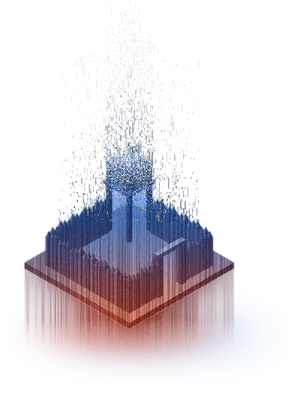
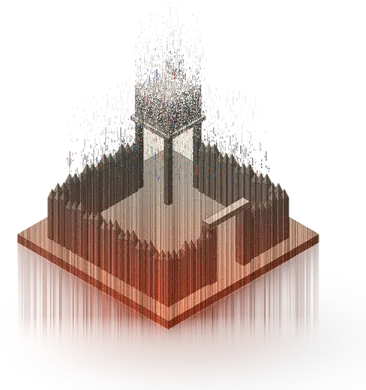
feat(web): render illustrations per theme and use a gate on login
- dissolve.py: add ledger-light (ink on cream) and ledger-dark (paper on
    dark) palettes with rust at the base and a softer glow, plus a
    --headroom option (0.18) so scenes fill their frames instead of
    sitting under ~45% empty space
  - render.py: add a gatehouse scene (closed portcullis, badge reader) for
    the sign-in page, replacing the reused palisade art
  - regenerate every scene as <name>.webp and <name>-dark.webp (+ -sm);
    drop login.webp
  - add components/ArtImage.tsx: shows the current theme's file via dark:,
    the other stays display:none and lazy so it is never fetched; priority
    goes to the visible one
  - Art.tsx: scene map holds light/dark pairs; ArtHero wraps the image for
    display and widens the art column to 240px
  - LoginPage: show the gate through ArtImage without importing Art.tsx,
    so the login build ships only its own images
  - remove unused @hugeicons/react and @hugeicons/core-free-icons
  - CLAUDE.md: document the per-theme art pipeline and commands

diff --git a/web/src/components/Art.tsx b/web/src/components/Art.tsx
@@ -1,49 +1,46 @@
 import type { ReactNode } from "react";
-import beacon from "@/assets/art/beacon.webp";
-import beaconSm from "@/assets/art/beacon-sm.webp";
-import consoleArt from "@/assets/art/console.webp";
-import consoleSm from "@/assets/art/console-sm.webp";
 import palisade from "@/assets/art/palisade.webp";
 import palisadeSm from "@/assets/art/palisade-sm.webp";
+import palisadeDark from "@/assets/art/palisade-dark.webp";
+import palisadeDarkSm from "@/assets/art/palisade-dark-sm.webp";
 import rack from "@/assets/art/rack.webp";
 import rackSm from "@/assets/art/rack-sm.webp";
-import sieve from "@/assets/art/sieve.webp";
-import sieveSm from "@/assets/art/sieve-sm.webp";
+import rackDark from "@/assets/art/rack-dark.webp";
+import rackDarkSm from "@/assets/art/rack-dark-sm.webp";
 import vault from "@/assets/art/vault.webp";
 import vaultSm from "@/assets/art/vault-sm.webp";
+import vaultDark from "@/assets/art/vault-dark.webp";
+import vaultDarkSm from "@/assets/art/vault-dark-sm.webp";
+import beacon from "@/assets/art/beacon.webp";
+import beaconSm from "@/assets/art/beacon-sm.webp";
+import beaconDark from "@/assets/art/beacon-dark.webp";
+import beaconDarkSm from "@/assets/art/beacon-dark-sm.webp";
+import sieve from "@/assets/art/sieve.webp";
+import sieveSm from "@/assets/art/sieve-sm.webp";
+import sieveDark from "@/assets/art/sieve-dark.webp";
+import sieveDarkSm from "@/assets/art/sieve-dark-sm.webp";
+import consoleArt from "@/assets/art/console.webp";
+import consoleSm from "@/assets/art/console-sm.webp";
+import consoleDark from "@/assets/art/console-dark.webp";
+import consoleDarkSm from "@/assets/art/console-dark-sm.webp";
+import { ArtImage, type ArtPair } from "@/components/ArtImage";
 import { labelMono } from "@/components/layout/Page";
-import { cn } from "@/lib/utils";
 
-// Decorative scenes drawn by scripts/art (render.py, then dissolve.py with
-// the ledger palette). Transparent WebP, so one file sits on both themes.
+// Decorative scenes drawn by scripts/art (render.py, then dissolve.py
+// --palette ledger-light and ledger-dark --headroom 0.18), one file per theme.
+// Sizes are what dissolve.py prints.
 const scenes = {
-  palisade: { full: palisade, sm: palisadeSm, w: 601, h: 793 },
-  rack: { full: rack, sm: rackSm, w: 594, h: 917 },
-  vault: { full: vault, sm: vaultSm, w: 591, h: 818 },
-  beacon: { full: beacon, sm: beaconSm, w: 585, h: 976 },
-  sieve: { full: sieve, sm: sieveSm, w: 583, h: 808 },
-  console: { full: consoleArt, sm: consoleSm, w: 583, h: 791 },
-};
+  palisade: { light: { full: palisade, sm: palisadeSm, w: 733, h: 781 }, dark: { full: palisadeDark, sm: palisadeDarkSm, w: 742, h: 781 } },
+  rack: { light: { full: rack, sm: rackSm, w: 665, h: 870 }, dark: { full: rackDark, sm: rackDarkSm, w: 673, h: 870 } },
+  vault: { light: { full: vault, sm: vaultSm, w: 728, h: 821 }, dark: { full: vaultDark, sm: vaultDarkSm, w: 737, h: 821 } },
+  beacon: { light: { full: beacon, sm: beaconSm, w: 611, h: 870 }, dark: { full: beaconDark, sm: beaconDarkSm, w: 618, h: 870 } },
+  sieve: { light: { full: sieve, sm: sieveSm, w: 723, h: 817 }, dark: { full: sieveDark, sm: sieveDarkSm, w: 731, h: 817 } },
+  console: { light: { full: consoleArt, sm: consoleSm, w: 723, h: 794 }, dark: { full: consoleDark, sm: consoleDarkSm, w: 731, h: 794 } },
+} satisfies Record<string, ArtPair>;
 
-// Art is decoration only: empty alt and hidden from assistive tech. Width and
-// height reserve the space before it loads; size it with a width class.
+// Size it with a width class; className must not set display (see ArtImage).
 export function Art({ name, className }: { name: keyof typeof scenes; className?: string }) {
-  const s = scenes[name];
-  return (
-    <img
-      src={s.sm}
-      srcSet={`${s.sm} ${s.w >> 1}w, ${s.full} ${s.w}w`}
-      sizes="(min-width: 640px) 280px, 200px"
-      width={s.w}
-      height={s.h}
-      alt=""
-      aria-hidden
-      decoding="async"
-      loading="lazy"
-      draggable={false}
-      className={cn("pointer-events-none h-auto select-none transition-opacity duration-700 ease-out starting:opacity-0 motion-reduce:transition-none", className)}
-    />
-  );
+  return <ArtImage art={scenes[name]} sizes="(min-width: 640px) 240px, 200px" className={className} />;
 }
 
 // ArtHero opens a page: eyebrow, title and a line of copy on the left, the
@@ -52,12 +49,14 @@ export function Art({ name, className }: { name: keyof typeof scenes; className?
 export function ArtHero({ art, eyebrow, title, children }: { art: keyof typeof scenes; eyebrow: string; title: string; children: ReactNode }) {
   return (
     <section className="relative overflow-hidden border border-edge bg-card sm:min-h-[240px]">
-      <div className="relative z-10 flex flex-col gap-3 p-6 sm:pr-[240px] lg:pr-[260px]">
+      <div className="relative z-10 flex flex-col gap-3 p-6 sm:pr-[270px] lg:pr-[300px]">
         <p className={labelMono}>{eyebrow}</p>
         <h2 className="text-[24px] leading-tight text-ink sm:text-[30px]">{title}</h2>
         {children}
       </div>
-      <Art name={art} className="absolute inset-y-3 right-4 hidden h-[calc(100%-1.5rem)] w-auto max-w-[220px] object-contain object-bottom sm:block lg:right-8" />
+      <div className="absolute inset-y-3 right-4 hidden sm:block lg:right-8">
+        <Art name={art} className="h-full w-auto max-w-[240px] object-contain object-bottom" />
+      </div>
     </section>
   );
 }

diff --git a/web/src/features/login/LoginPage.tsx b/web/src/features/login/LoginPage.tsx
@@ -1,8 +1,11 @@
 import { useState, type ReactNode } from "react";
 import { fromB64, toB64 } from "@/lib/b64";
 import { cn } from "@/lib/utils";
-import loginArt from "@/assets/art/login.webp";
-import loginArtSm from "@/assets/art/login-sm.webp";
+import gate from "@/assets/art/gate.webp";
+import gateSm from "@/assets/art/gate-sm.webp";
+import gateDark from "@/assets/art/gate-dark.webp";
+import gateDarkSm from "@/assets/art/gate-dark-sm.webp";
+import { ArtImage } from "@/components/ArtImage";
 
 // The public sign-in page (web/login.html, its own build): password, the 2FA
 // step and an invite's set-password step. Forms post to Go as before, and Go
@@ -112,20 +115,18 @@ export function LoginPage({ state = readLogin() }: { state?: LoginState }) {
   );
 }
 
-// The palisade scene from scripts/art (dissolve.py --palette ledger), the
-// same treatment as the app's page heroes, whole and on the card colour.
+// The gatehouse from scripts/art (render.py gate, dissolve.py --size 1100
+// --headroom 0.18), the same treatment as the app's page heroes.
+const gateArt = {
+  light: { full: gate, sm: gateSm, w: 1081, h: 1272 },
+  dark: { full: gateDark, sm: gateDarkSm, w: 1093, h: 1272 },
+};
 const Art = ({ className }: { className?: string }) => (
-  <img
-    src={loginArtSm}
-    srcSet={`${loginArtSm} 586w, ${loginArt} 1173w`}
-    sizes="(min-width: 1024px) 45vw, 200px"
-    alt=""
-    aria-hidden
-    width={1173}
-    height={1445}
-    fetchPriority="high"
-    draggable={false}
-    className={cn("pointer-events-none absolute inset-0 h-full object-contain object-center select-none", className)}
+  <ArtImage
+    art={gateArt}
+    sizes="(min-width: 1024px) 40vw, 200px"
+    priority
+    className={cn("absolute inset-0 h-full object-contain object-center", className)}
   />
 );
 

diff --git a/web/src/components/ArtImage.tsx b/web/src/components/ArtImage.tsx
@@ -1,0 +1,38 @@
+import { cn } from "@/lib/utils";
+
+// One rendering of a scene: full file, half-size file, full pixel size.
+export type ArtFile = { full: string; sm: string; w: number; h: number };
+export type ArtPair = { light: ArtFile; dark: ArtFile };
+
+// ArtImage shows the light or dark rendering of a scene (dissolve.py
+// --palette ledger-light / ledger-dark) for the current theme. The other one
+// is display:none and lazy, so the browser never fetches it. className goes on
+// both images and must not set display. Decorative only: empty alt, hidden
+// from assistive tech; width and height reserve the space before it loads.
+export function ArtImage({ art, sizes, className, priority }: { art: ArtPair; sizes: string; className?: string; priority?: boolean }) {
+  // priority goes to the one the theme shows now; the other stays lazy.
+  const dark = document.documentElement.dataset.theme === "dark";
+  return (
+    <>
+      <Img f={art.light} sizes={sizes} priority={priority && !dark} className={cn("dark:hidden", className)} />
+      <Img f={art.dark} sizes={sizes} priority={priority && dark} className={cn("hidden dark:block", className)} />
+    </>
+  );
+}
+
+const Img = ({ f, sizes, className, priority }: { f: ArtFile; sizes: string; className: string; priority?: boolean }) => (
+  <img
+    src={f.sm}
+    srcSet={`${f.sm} ${f.w >> 1}w, ${f.full} ${f.w}w`}
+    sizes={sizes}
+    width={f.w}
+    height={f.h}
+    alt=""
+    aria-hidden
+    decoding="async"
+    loading={priority ? undefined : "lazy"}
+    fetchPriority={priority ? "high" : undefined}
+    draggable={false}
+    className={cn("pointer-events-none h-auto select-none transition-opacity duration-700 ease-out starting:opacity-0 motion-reduce:transition-none", className)}
+  />
+);

diff --git a/scripts/art/dissolve.py b/scripts/art/dissolve.py
@@ -1,7 +1,7 @@
 #!/usr/bin/env python3
 """504/505 treatment for a subject image.
 
-    uv run --with numpy --with pillow scripts/art/dissolve.py <input> <output.webp> [--palette ledger] [--seed N] [--size 1400]
+    uv run --with numpy --with pillow scripts/art/dissolve.py <input> <output.webp> [--palette ledger-light] [--headroom 0.2] [--seed N] [--size 1400]
 
 The dashboard art: render.py draws the scenes, this turns them into
 web/src/assets/art/*.webp (see web/README.md).
@@ -34,6 +34,11 @@ PALETTES = {
     # The admin theme (static/css/ledger.css): info blue on top, danger and
     # warning at the base, success green in the sparks. Mid-tones only, so the
     # same file reads on the cream and the dark paper.
+    # The admin theme (static/css/ledger.css), one file per theme: ink on the
+    # cream paper, paper on the dark one, rust (danger) at the base. Glow kept
+    # low: the theme is flat print, not neon.
+    'ledger-light': dict(cool=('#2a2926', '#6b655a', '#e6dfd0'), warm=('#6e2412', '#c84b31', '#ecc193'), shade='#2a2926', accents=('#c84b31', '#2e5aa3'), glow=0.22, shade_a=0.18),
+    'ledger-dark': dict(cool=('#33322c', '#8c867a', '#e8dfce'), warm=('#5a2416', '#e07a61', '#e0ae6e'), shade='#000000', accents=('#e07a61', '#7fa4e6'), glow=0.3, shade_a=0.3),
     'ledger': dict(cool=('#1d2f5c', '#2e5aa3', '#7fa4e6'), warm=('#7a2414', '#c84b31', '#e0ae6e'), shade='#5b88d9', accents=('#d9a05b', '#6aac6f')),
 }
 
@@ -70,7 +75,7 @@ def isolate(img):
     return rgba
 
 
-def run(src, dst, seed=7, size=1400, palette='indigo'):
+def run(src, dst, seed=7, size=1400, palette='indigo', headroom=0.45):
     pal = PALETTES[palette]
     cool_stops, warm_stops = [tuple(hexc(c) for c in pal[k]) for k in ('cool', 'warm')]
     glow_c, acc1, acc2 = hexc(pal['warm'][1]), hexc(pal['accents'][0]), hexc(pal['accents'][1])
@@ -81,7 +86,7 @@ def run(src, dst, seed=7, size=1400, palette='indigo'):
 
     # Pad: room above for particles, below for streaks and glow.
     h, w = sub.shape[:2]
-    top_pad, bot_pad, side = int(h * 0.45), int(h * 0.22), int(w * 0.12)
+    top_pad, bot_pad, side = int(h * headroom), int(h * min(0.22, headroom)), int(w * 0.12)
     H, W = h + top_pad + bot_pad, w + side * 2
     canvas = np.zeros((H, W, 4), np.float32)
     canvas[top_pad:top_pad + h, side:side + w] = sub
@@ -140,8 +145,8 @@ def run(src, dst, seed=7, size=1400, palette='indigo'):
     glow_a = np.asarray(Image.fromarray((glow_a * 255).astype(np.uint8)).filter(ImageFilter.GaussianBlur(gw * 0.06))) / 255
     shade = ((gx - cx - gw * 0.15) / (gw * 0.6)) ** 2 + ((gy - base - gw * 0.03) / (gw * 0.12)) ** 2
     shade_a = np.asarray(Image.fromarray((np.clip(1 - shade, 0, 1) * 255).astype(np.uint8)).filter(ImageFilter.GaussianBlur(gw * 0.08))) / 255
-    over(np.broadcast_to(hexc(pal['shade']), (H, W, 3)), shade_a * 0.35)
-    over(np.broadcast_to(glow_c, (H, W, 3)), glow_a * 0.7)
+    over(np.broadcast_to(hexc(pal['shade']), (H, W, 3)), shade_a * pal.get('shade_a', 0.35))
+    over(np.broadcast_to(glow_c, (H, W, 3)), glow_a * pal.get('glow', 0.7))
 
     over(streak_c, np.clip(streak_a * 0.9, 0, 1))
     over(col, body_a)
@@ -153,7 +158,7 @@ def run(src, dst, seed=7, size=1400, palette='indigo'):
     if n:
         pick = rng.choice(len(by), n, replace=False)
         py, px = by[pick], bx[pick]
-        rise = (rng.random(n) ** 2.6) * (top_pad + (y1 - y0) * 0.3) * 0.95
+        rise = (rng.random(n) ** 2.6) * top_pad * 1.4
         dash = (1 + rng.random(n) * 5 + (rng.random(n) < 0.12) * rng.random(n) * 18).astype(int)
         width = 1 + (rng.random(n) < 0.35)
         snap = 3
@@ -196,6 +201,7 @@ if __name__ == '__main__':
     p.add_argument('--seed', type=int, help='default: derived from the file name, so re-runs match')
     p.add_argument('--size', type=int, default=1400)
     p.add_argument('--palette', choices=sorted(PALETTES), default='indigo')
+    p.add_argument('--headroom', type=float, default=0.45, help='space above the subject for the rising dashes, as a share of its height')
     args = p.parse_args()
     seed = args.seed if args.seed is not None else zlib.crc32(os.path.basename(args.src).encode())
-    run(args.src, args.dst, seed, args.size, args.palette)
+    run(args.src, args.dst, seed, args.size, args.palette, args.headroom)

diff --git a/scripts/art/render.py b/scripts/art/render.py
@@ -3,7 +3,7 @@
 
     uv run --with numpy --with pillow scripts/art/render.py <out-dir>
 
-Writes <out-dir>/palisade.png, rack.png, vault.png, beacon.png, sieve.png and console.png, the inputs for
+Writes <out-dir>/palisade.png, rack.png, vault.png, beacon.png, sieve.png, console.png and gate.png, the inputs for
 dissolve.py. Drawn here rather than downloaded so the art is ours to ship and
 every shape is a plain grey the gradient map can recolour.
 """
@@ -308,6 +308,44 @@ def console(out):
     sc.render(out)
 
 
+def gate(out):
+    """Sign-in: a gatehouse with the portcullis down and a badge reader on the
+    path in front of it."""
+    sc = Scene(1800, 2000, 30, (900, 1000))
+    sc.box(-1, -1, -1, 18, 16, 1, -10, layer=-2)  # ground slab
+    sc.box(8, 5.2, 0, 9, 3.6, 0.15, 25, layer=-1)  # path up to the gate
+
+    def slits(x, y, z, w, d, h):
+        X = x + w
+        for k in range(2):
+            zz = z + 3.5 + k * 4.0
+            sc.poly([(X, y + d / 2 - 0.25, zz), (X, y + d / 2 + 0.25, zz), (X, y + d / 2 + 0.25, zz + 1.8), (X, y + d / 2 - 0.25, zz + 1.8)], LINE)
+
+    # Two towers with battlements, a wall walk between them over the gate.
+    for ty in (0, 10):
+        sc.box(3, ty, 0, 5, 4, 12, 0, slits)
+        for k in range(2):
+            sc.box(3 + k * 2, ty, 12, 0.8, 0.8, 1, 10, layer=1)
+        for k in range(3):
+            sc.box(7.2, ty + k * 1.6, 12, 0.8, 0.8, 1, 10, layer=1)
+    sc.box(3.5, 4, 0, 3.5, 6, 10.5, -15)  # wall behind the gate
+    sc.box(3.5, 4, 9, 4.4, 6, 1.6, 10)  # lintel, before the near tower
+
+    # Portcullis: bars and cross rails in the gate opening, down.
+    for k in range(6):
+        sc.box(7.4, 4.4 + k * 1.0, 0, 0.3, 0.3, 9, -20 + (k % 2) * 10)
+    for z in (2.5, 5.5):
+        sc.box(7.35, 4.2, z, 0.4, 5.6, 0.3, 20, layer=1)
+
+    # Badge reader on a post beside the path, its screen lit.
+    def screen(x, y, z, w, d, h):
+        X = x + w
+        sc.poly([(X, y + 0.2, z + 0.4), (X, y + d - 0.2, z + 0.4), (X, y + d - 0.2, z + h - 0.2), (X, y + 0.2, z + h - 0.2)], 250)
+    sc.box(12, 9.6, 0, 0.6, 0.6, 3.6, -10)
+    sc.box(11.7, 9.3, 3.6, 1.2, 1.2, 1.6, 0, screen)
+    sc.render(out)
+
+
 if __name__ == '__main__':
     out = Path(sys.argv[1] if len(sys.argv) > 1 else '.')
     out.mkdir(parents=True, exist_ok=True)
@@ -317,3 +355,4 @@ if __name__ == '__main__':
     beacon(out / 'beacon.png')
     sieve(out / 'sieve.png')
     console(out / 'console.png')
+    gate(out / 'gate.png')

diff --git a/CLAUDE.md b/CLAUDE.md
@@ -145,7 +145,7 @@ make tag VERSION=v1.0.0  # roll CHANGELOG, commit, tag, push -> release workflow
 - Serving (`ui/app.go`, issue #357): the app is at the admin root. `{admin}` and the catch-all `{admin}/*` (`AppPage`) sit in the session group, so the page and every asset need a login; Echo prefers every other route, so a JSON route and a client route can't share a path (`/logs/:id` is JSON, so the Logs page uses `/logs`). `{admin}/app/*` (the address before #357) redirects to the same path with its query (`fromApp`). `dist/index.html` is an html/template: Go fills `{{.Base}}` asset URLs (the build plugin rewrites `./assets/`; `<base href>` is out because of `base-uri 'none'`) and `<body data-*>` with admin path, CSRF, role, email, demo, version and a per-request nonce (`web/src/boot.ts` reads them; no "who am I" request). Any other path renders the page (client routing); `assets/*`, `api/*` and `static/*` never fall back to it. Assets are served as Vite's prebuilt `.br`/`.gz` (`acceptsEncoding`), `private, max-age=31536000, immutable`; the page is `no-store`. The sign-in page (issue #357) is its own build, `vite build --mode login` from `web/login.html` into `dist/login` (`unbrand({partial: true})`, so rules for libraries it doesn't bundle may match nothing; `bun run smoke` checks both builds): `renderLoginPage` fills `{{.Base}}` and `<body data-*>` (stage `""`/`totp`/`invite`, error, notice, SSO name, demo account, passkeys, email recovery, invite email and token; `web/src/features/login`), its assets are public at `{admin}/login/assets/*` (`LoginAsset`), and the forms post to Go as plain forms, which answers with the next stage. Nothing of the app's own JS is served before a session. Its page has the plain `adminCSP` (no style nonce), so it must not inject a `<style>`. Go tests get both pages from the harness's `appFS`.
 - App CSP is `adminCSP` plus `style-src 'nonce-…'` for the `<style>` Radix's scroll lock injects via `get-nonce` (`setNonce` in `main.tsx`). Any other library that injects `<style>` must take the nonce or be stopped: sonner's is stripped at build (`sonnerNoInlineStyle`, fails the build if sonner changes) and its stylesheet imported instead. `web/src/csp.test.tsx` fails on an injected `<style>` without the nonce; add new style-injecting components to it.
 - `web/build/palisade.ts` holds the Vite plugins (template rewrite, precompress, sonner, unbrand, dev proxy). `unbrand` renames what libraries leave in the built JS/CSS (React's devtools hook and DOM keys, `Symbol.for("react.*")`, TanStack's window/history keys, `data-sonner`/`data-slot`, error links). Names several files must agree on (`sharedRules`) are renamed before file names are hashed (`renderChunk`, CSS `transform`; includes Radix's `data-radix-*`/`--radix-*`/`radix-` ids and `Symbol.for("radix…")`, and cmdk's `cmdk-*` attributes), or a rule change would keep a file's name with new content under the year-long immutable cache; only single-file text (`localRules`) is renamed in the final output; the build fails if a rule stops matching (unless marked optional, like `data-slot`, which depends on which shadcn components are used) or any library name is left, so a new dependency or version needs a rule. `bun run smoke` (in `make web-check`) loads the real `dist/` in jsdom and fails if it doesn't render or still shows a library name at runtime. Never ship a build that skipped it. Vendor code splits into `react`/`tanstack`/`ui` chunks, emitted under hash-only names (`assets/[hash].js`) so file names don't advertise the stack; page-only libraries stay in lazy route chunks. `dist/licenses.md` (third-party notices) is served at `{admin}/licenses.md`. The build uploads bundle sizes to Codecov (`@codecov/vite-plugin`, last in `vite.config.ts`) only when `CODECOV_TOKEN` is set (CI's web job); a failed upload doesn't fail the build. `overrides.zod` in `web/package.json` forces the plugin's zod 3 (a high advisory, which fails CI's `bun audit`) onto zod 4; drop it once the plugin depends on zod 4.
-- Shell (`web/src/components/layout/Shell.tsx`): the admin frame (sidebar, top bar clock, read-only tag, theme toggle sharing `cz-theme` with `static/js/theme.js`, logout form, status footer); WAF state comes from `<body data-waf>`. Top bar search (cmdk, Ctrl/Cmd+K or `/`) and the notifications bell (`/api/notifications` + its SSE stream, toasts via sonner) use `/search` and `/api/notifications`, JSON only. `wantsJSON` (`ui/app.go`, `Accept: application/json`, adds `Vary: Accept`) tells the app from a browser navigation where both reach an endpoint (sign-in redirect, error pages). JSON callers of the session group get every failure as `{"error": code, "message", "fields"?}` with a real status (issue #349, `ui/app.go`): a handler returns a `*jsonError` (field errors go in `Fields`), `jsonErrors` (first in the group) writes it, turns Echo 4xx (body limit, CSRF) into it, and answers anything else as a logged 500 without the error text; `signIn` gives a 401 instead of the login redirect, `denied` a 403 (`forbidden`, `demo`). Never a 200 with an `...Err` field or `HX-Retarget` for the app. Test with `env.doJSON(session, method, path, body, &out)`. `/api/v1` keeps its `{"error": message}` body for the CLI; `apiError` answers a session caller (a handler shared by both groups, like `APIListLogs` at `/api/logs` or `LogDetail`) with the contract instead. Dashboard (issue #350) is at `/` and Live Logs at `/logs`; their JSON is `/api/dashboard`, `/api/logs`, `/api/logs/apps`, `/logs/:id`, `/logs/stats`, and `/logs/stream` sends one JSON `statEvent` per request (table row and Stats tally alike). IP and Geo Rules (issue #351) are at `/ip-rules` and `/geo-rules`: `/api/ip-rules` (paged, with threat scores), `/api/ip-rules/settings` and `PUT /api/ip-rules/{autoban,adaptive,honeypots}`, `/api/geo-rules` (shared `APIListGeoRules`); adds and removes are bulk and all-or-none (`POST /api/{ip,geo}-rules` and `.../remove` with `ids`, at most `bulkMax`), and a field error comes back with `fieldError`. Certificates (issue #352) is at `/certificates`: `GET /api/certificates` (the pool with each cert's serving services, every host-matched service's TLS mode, and whether an ACME email is set), `POST /api/certificates` (JSON PEM pair, key checked against the cert before anything is written; a clashing name falls back to a domain) and `DELETE /api/certificates/:id`. Services (issue #356) is at `/services`: `GET /api/services` (every service with all its settings grouped as the edit dialog's tabs, the pool, whether an ACME email is set, the HTTP/3 listener and Varnish; polled for health), `GET /api/services/cache-stats` (varnishstat plus per-service results, its own slower poll), `POST /api/services`, `DELETE /api/services/:id`, and one write per tab under `/api/services/:id/`: `PUT` `name`, `hosts`, `backends` (those three 409 `docker_managed`), `rate-limit`, `bot`, `gate` (keeps the bypass token unless `new_bypass`; only admins read it), `uploads`, `schema`, `openapi` (the spec is read separately with `GET .../openapi`), `mcp`, `jwt`, `csp`, `cookies`, `policy`, `responses`, `cache`, `tls` (`pool`/`custom`/`auto`/`none`; `auto` takes `acme_email` when none is stored), `http3`, `mtls` (the last three 409 `no_host` on a prefix service), and `POST .../purge` (409 with Varnish off, 502 when varnishd refuses). Threat Intel (issue #353) is at `/threat-intel`: `GET /api/threat-intel` (sources with `kind` feed/crowdsec, the LAPI URL without `storage.CrowdSecPrefix`, IP/range counts, and `push` for machine credentials; keys never leave the server, plus the presets), `POST /api/threat-intel` and `/api/threat-intel/crowdsec` (201; a duplicate URL is a 409 with a `url` field error), `PUT /api/threat-intel/:id` `{"enabled"}` (optimistic in the page), `POST .../:id/sync` (fetches in the request and answers with the source's new state) and `DELETE .../:id`. WAF Rules (issue #354) is at `/waf-rules`: `GET /api/waf-rules` (virtual patches, suggestions with the feedback thresholds, top firing rules, custom rules, every exception with `service` "" for global, service names, `waf_enabled`), `POST /api/waf-rules/exceptions` (`rule_id`, `service`, `reason`; virtual patches, top rules and suggestions turn off through it), `DELETE .../exceptions/global/:id` and `.../services/:id`, `PUT /api/waf-rules/feedback`, `POST`/`PUT /api/waf-rules/custom[/:id]` (a rule that doesn't compile or reuses an id is a `rule` field error), `PUT .../custom/:id/enabled` (optimistic in the page), `DELETE .../custom/:id`, and `POST /api/waf-rules/dry-run` (`rule`, `limit`; 409 with the WAF off, 429 while another runs). Settings (issue #355) is at `/settings`, one read per section: `GET /api/settings/account` (every role: own credentials, 2FA, passkeys, devices; `PUT .../credentials`, `POST .../2fa/{start,confirm,disable}`, `POST .../passkeys/{begin,finish}`, `DELETE .../passkeys/:id`, `DELETE .../devices/:id`, `POST .../devices/sign-out-others`), `GET /api/settings/protection` (every role reads, admins `PUT .../{bot,rate-limit,trusted-ips,varnish}`), `GET /api/settings/audit?page=` (every role), and owner-only `GET /api/settings/team` (users, SSO invites, SSO, API keys; their writes under `/api/settings/{users,sso-invites,sso,api-keys}`) and `GET /api/settings/alerts` (`PUT .../{webhook,email}`, `POST .../{webhook,email}/test`, 502 with the reason when a send fails). Write-only secrets (CAPTCHA secret, email token, SSO client secret) are never read back, and a blank one keeps the stored value; an invite link or a new API key is answered once. The database backup and config export stay `POST /settings/{backup,config-export}`, submitted by a plain form with `_csrf` so the browser saves the file. Add-on cards (`ext.Card`) render on the server at `/settings/pro` (`templates/pro.html`, see above); `<body data-pro>` tells the app to link there. Charts are plain SVG (no chart library, nothing to unbrand); `style` attributes would break the CSP. Illustrations (issue #361) are ours, not downloaded: `scripts/art/render.py` draws isometric grey scenes, `scripts/art/dissolve.py --palette ledger --size 640` maps them to the theme's info/danger/warning tones as transparent WebP (+ `-sm`) in `web/src/assets/art/`, one file for both themes; show them only through `components/Art.tsx` (`ArtHero` opens a page with one; decorative: empty alt, `aria-hidden`, fixed width/height), and add a new scene to its `scenes` map with the size the script prints. Pages build from `components/layout/Page.tsx` (`Page`, `PageHeader` (also sets the tab title), `Card` with header/body/footer slots, `Grid`, `FormRow`). `src/router.ts` makes the Palisade 404/error screens the router defaults (a route without its own `errorComponent` falls back to the router default, not its parent's). Icons are the hugeicons subset, so `make icons` and `TestIconsInSubset` scan `web/src` too. In `web/`, `text-muted` is shadcn's background colour: use `text-slate-500` for muted text.
+- Shell (`web/src/components/layout/Shell.tsx`): the admin frame (sidebar, top bar clock, read-only tag, theme toggle sharing `cz-theme` with `static/js/theme.js`, logout form, status footer); WAF state comes from `<body data-waf>`. Top bar search (cmdk, Ctrl/Cmd+K or `/`) and the notifications bell (`/api/notifications` + its SSE stream, toasts via sonner) use `/search` and `/api/notifications`, JSON only. `wantsJSON` (`ui/app.go`, `Accept: application/json`, adds `Vary: Accept`) tells the app from a browser navigation where both reach an endpoint (sign-in redirect, error pages). JSON callers of the session group get every failure as `{"error": code, "message", "fields"?}` with a real status (issue #349, `ui/app.go`): a handler returns a `*jsonError` (field errors go in `Fields`), `jsonErrors` (first in the group) writes it, turns Echo 4xx (body limit, CSRF) into it, and answers anything else as a logged 500 without the error text; `signIn` gives a 401 instead of the login redirect, `denied` a 403 (`forbidden`, `demo`). Never a 200 with an `...Err` field or `HX-Retarget` for the app. Test with `env.doJSON(session, method, path, body, &out)`. `/api/v1` keeps its `{"error": message}` body for the CLI; `apiError` answers a session caller (a handler shared by both groups, like `APIListLogs` at `/api/logs` or `LogDetail`) with the contract instead. Dashboard (issue #350) is at `/` and Live Logs at `/logs`; their JSON is `/api/dashboard`, `/api/logs`, `/api/logs/apps`, `/logs/:id`, `/logs/stats`, and `/logs/stream` sends one JSON `statEvent` per request (table row and Stats tally alike). IP and Geo Rules (issue #351) are at `/ip-rules` and `/geo-rules`: `/api/ip-rules` (paged, with threat scores), `/api/ip-rules/settings` and `PUT /api/ip-rules/{autoban,adaptive,honeypots}`, `/api/geo-rules` (shared `APIListGeoRules`); adds and removes are bulk and all-or-none (`POST /api/{ip,geo}-rules` and `.../remove` with `ids`, at most `bulkMax`), and a field error comes back with `fieldError`. Certificates (issue #352) is at `/certificates`: `GET /api/certificates` (the pool with each cert's serving services, every host-matched service's TLS mode, and whether an ACME email is set), `POST /api/certificates` (JSON PEM pair, key checked against the cert before anything is written; a clashing name falls back to a domain) and `DELETE /api/certificates/:id`. Services (issue #356) is at `/services`: `GET /api/services` (every service with all its settings grouped as the edit dialog's tabs, the pool, whether an ACME email is set, the HTTP/3 listener and Varnish; polled for health), `GET /api/services/cache-stats` (varnishstat plus per-service results, its own slower poll), `POST /api/services`, `DELETE /api/services/:id`, and one write per tab under `/api/services/:id/`: `PUT` `name`, `hosts`, `backends` (those three 409 `docker_managed`), `rate-limit`, `bot`, `gate` (keeps the bypass token unless `new_bypass`; only admins read it), `uploads`, `schema`, `openapi` (the spec is read separately with `GET .../openapi`), `mcp`, `jwt`, `csp`, `cookies`, `policy`, `responses`, `cache`, `tls` (`pool`/`custom`/`auto`/`none`; `auto` takes `acme_email` when none is stored), `http3`, `mtls` (the last three 409 `no_host` on a prefix service), and `POST .../purge` (409 with Varnish off, 502 when varnishd refuses). Threat Intel (issue #353) is at `/threat-intel`: `GET /api/threat-intel` (sources with `kind` feed/crowdsec, the LAPI URL without `storage.CrowdSecPrefix`, IP/range counts, and `push` for machine credentials; keys never leave the server, plus the presets), `POST /api/threat-intel` and `/api/threat-intel/crowdsec` (201; a duplicate URL is a 409 with a `url` field error), `PUT /api/threat-intel/:id` `{"enabled"}` (optimistic in the page), `POST .../:id/sync` (fetches in the request and answers with the source's new state) and `DELETE .../:id`. WAF Rules (issue #354) is at `/waf-rules`: `GET /api/waf-rules` (virtual patches, suggestions with the feedback thresholds, top firing rules, custom rules, every exception with `service` "" for global, service names, `waf_enabled`), `POST /api/waf-rules/exceptions` (`rule_id`, `service`, `reason`; virtual patches, top rules and suggestions turn off through it), `DELETE .../exceptions/global/:id` and `.../services/:id`, `PUT /api/waf-rules/feedback`, `POST`/`PUT /api/waf-rules/custom[/:id]` (a rule that doesn't compile or reuses an id is a `rule` field error), `PUT .../custom/:id/enabled` (optimistic in the page), `DELETE .../custom/:id`, and `POST /api/waf-rules/dry-run` (`rule`, `limit`; 409 with the WAF off, 429 while another runs). Settings (issue #355) is at `/settings`, one read per section: `GET /api/settings/account` (every role: own credentials, 2FA, passkeys, devices; `PUT .../credentials`, `POST .../2fa/{start,confirm,disable}`, `POST .../passkeys/{begin,finish}`, `DELETE .../passkeys/:id`, `DELETE .../devices/:id`, `POST .../devices/sign-out-others`), `GET /api/settings/protection` (every role reads, admins `PUT .../{bot,rate-limit,trusted-ips,varnish}`), `GET /api/settings/audit?page=` (every role), and owner-only `GET /api/settings/team` (users, SSO invites, SSO, API keys; their writes under `/api/settings/{users,sso-invites,sso,api-keys}`) and `GET /api/settings/alerts` (`PUT .../{webhook,email}`, `POST .../{webhook,email}/test`, 502 with the reason when a send fails). Write-only secrets (CAPTCHA secret, email token, SSO client secret) are never read back, and a blank one keeps the stored value; an invite link or a new API key is answered once. The database backup and config export stay `POST /settings/{backup,config-export}`, submitted by a plain form with `_csrf` so the browser saves the file. Add-on cards (`ext.Card`) render on the server at `/settings/pro` (`templates/pro.html`, see above); `<body data-pro>` tells the app to link there. Charts are plain SVG (no chart library, nothing to unbrand); `style` attributes would break the CSP. Illustrations (issue #361) are ours, not downloaded: `scripts/art/render.py` draws isometric grey scenes, `scripts/art/dissolve.py --size 640 --headroom 0.18` maps them to transparent WebP (+ `-sm`) in `web/src/assets/art/`, once per theme: `--palette ledger-light` → `<name>.webp` (ink on cream), `--palette ledger-dark` → `<name>-dark.webp` (paper on dark), rust at the base of both. Show them only through `components/ArtImage.tsx` (picks the theme's file with `dark:`; the other is `display:none` + lazy, never fetched; className must not set display), via `components/Art.tsx` (`ArtHero` opens a page with one) or directly on the login page (`gate`, `--size 1100`; the login build must not import `Art.tsx`, which pulls in every scene). Add a new scene to `scenes` with both sizes the script prints. Pages build from `components/layout/Page.tsx` (`Page`, `PageHeader` (also sets the tab title), `Card` with header/body/footer slots, `Grid`, `FormRow`). `src/router.ts` makes the Palisade 404/error screens the router defaults (a route without its own `errorComponent` falls back to the router default, not its parent's). Icons are the hugeicons subset, so `make icons` and `TestIconsInSubset` scan `web/src` too. In `web/`, `text-muted` is shadcn's background colour: use `text-slate-500` for muted text.
 - Frontend layout and tests: `web/README.md`. Code per area in `web/src/features/<area>/`, routes thin in `src/routes/`, shared code in `components/` and `lib/`. Tests sit next to their file; start from `bun run new:test <component|query|page> <file>` (templates in `web/test-templates/`). Helpers in `src/test/`: `renderWithProviders`, `renderRoute`, `mockApi` (an undeclared request fails the test), `asRole`/`setBoot`. Each feature tests loading/empty/error (a failed read shows `role="alert"`, never an empty list), write bodies, server field errors and role-hidden controls. `src/test/body.ts` must stay the first import in `setup.ts` (`lib/boot` reads `<body data-*>` at import).
 - Dev: `make web` once, run Palisade on :8080 (only when the user asks), then `cd web && bun run dev` and open `http://localhost:5173/admin/`. A page navigation gets the app (except the pages Go renders, `goPages` in `build/palisade.ts`); Vite proxies every other `/admin` path to `PALISADE_URL` and copies the session `<body data-*>` from the page Go renders for the same cookie; log in through the proxied `/admin/login`.
 - Every page script/stylesheet tag carries `?v={{.Asset}}`: the stamp hashes every embedded asset, and a matching `?v=` gets `Cache-Control: immutable` for a year (`ui/static.go`, issue #255). An asset loaded without the stamp is never cached that way. `{admin}/static/*` is gzipped except fonts/images.
